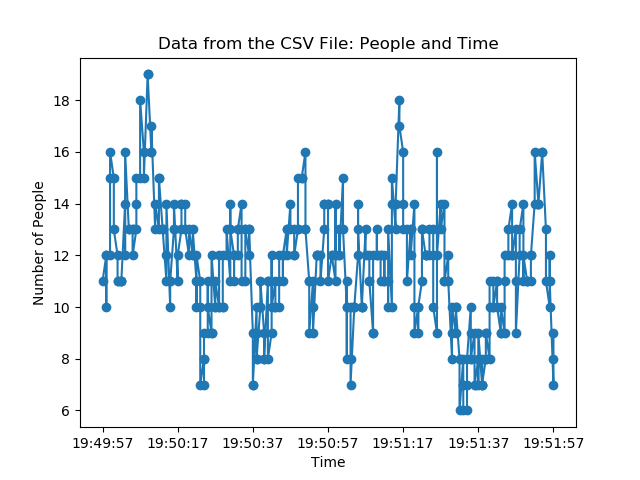
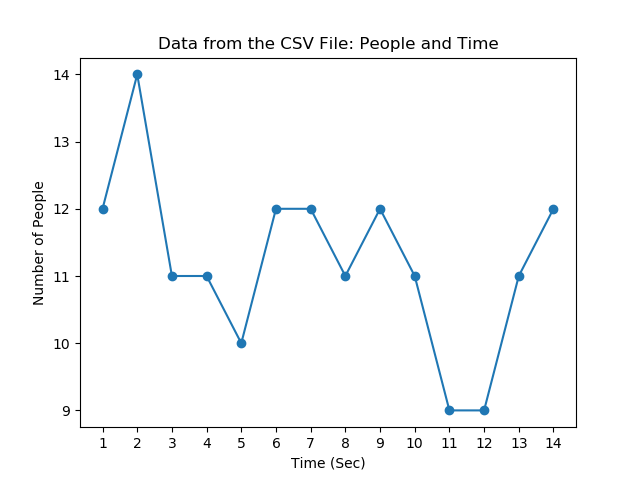
added secs in plot and results avg

diff --git a/od_example.py b/od_example.py
@@ -16,7 +16,7 @@ from matplotlib import pyplot as plt
 from PIL import Image
 from utils import label_map_util
 from utils import visualization_utils as vis_util
-from sapiens_utils import Sapiens 
+from sapiens_utils import Sapiens
 import reg_total_people
 #from sapiens_utils import Sapiens.det_record
 
@@ -25,7 +25,7 @@ elapsedTime = 0
 sapiens= Sapiens()
 
 # Define the video stream
-video_source = "people-1.mp4"
+video_source = "people_walking.mp4"
 cap = cv2.VideoCapture(video_source)  # Change only if you have more than one webcams
 
 # What model to download.
@@ -77,7 +77,7 @@ def load_image_into_numpy_array(image):
     return np.array(image.getdata()).reshape(
         (im_height, im_width, 3)).astype(np.uint8)
 
-i=0
+frames_processed = 1
 fpstot = 0.0
 
 # Detection
@@ -105,8 +105,13 @@ try:
                 (boxes, scores, classes, num_detections) = sess.run(
                     [boxes, scores, classes, num_detections],
                     feed_dict={image_tensor: image_np_expanded})
+
                 ### Count detected people on current frame
-                sapiens.people_on_output_tensor(scores=scores, classes=classes,num_detections=num_detections,threshold=0.5)
+                sapiens.people_on_output_tensor(scores=scores,
+                                                classes=classes,
+                                                num_detections=num_detections,
+                                                threshold=0.5,
+                                                frames_processed=frames_processed)
 
                 # Visualization of the results of a detection.
                 vis_util.visualize_boxes_and_labels_on_image_array(
@@ -126,11 +131,11 @@ try:
                     reg_total_people.plot_results(video_source)
                     cv2.destroyAllWindows()
                     break
-                
+
                 elapsedTime = time.time() - t1
-                i+=1
-                if i < 200:
+                if frames_processed < 200:
                     fpstot += 1/elapsedTime
-                    print('fps promedio: ', fpstot/i)
+                    print('fps promedio: ', fpstot/frames_processed)
+                frames_processed+=1
 except TypeError:
     reg_total_people.plot_results(video_source)

diff --git a/reg_total_people.py b/reg_total_people.py
@@ -1,27 +1,10 @@
 import matplotlib.pyplot as plt
 import csv
 from sapiens_utils import Sapiens
+from sapiens_utils import VIDEO_FPS
+from math import ceil
 
 def plot_results(video_source):
-
-	# mylist = func.sapiens_utils()
-	#mylist1 = [12, 10, 11, 11] # prueba
-	#mylist2 = ["a", "b", "c", "j"]
-	mylist = zip(Sapiens.det_record, Sapiens.time_record)
-
-	with open("register.csv", 'w', newline='') as myfile:
-		wr = csv.writer(myfile, quoting=csv.QUOTE_ALL)
-		wr.writerows(mylist)
-
-	#plt.locator_params(axis='x', nbins=10)
-	ax = plt.axes()
-	ax.xaxis.set_major_locator(plt.MaxNLocator(8))
-	plt.plot(Sapiens.time_record, Sapiens.det_record, marker='o')
-
-	plt.title('Data from the CSV File: People and Time')
-
-	plt.xlabel('Time')
-	plt.ylabel('Number of People')
 
 	try:
 		if video_source.endswith('.mp4'):
@@ -30,6 +13,32 @@ def plot_results(video_source):
 			video_source = "people"
 	except:
 		video_source = "people"
+
+	avg_det_record = []
+	for i in range(ceil(len(Sapiens.det_record) / VIDEO_FPS)):
+		if ((i+1)*VIDEO_FPS) < len(Sapiens.det_record):
+			gen_list = Sapiens.det_record[i*VIDEO_FPS:((i+1)*VIDEO_FPS)-1]
+		else:
+			gen_list = Sapiens.det_record[i*VIDEO_FPS:]
+
+		avg_det_record.append(round(sum(gen_list) / len(gen_list)))
+
+	avg_time_record = list(set(Sapiens.time_record))
+	mylist = zip(avg_det_record, avg_time_record)
+
+	with open(video_source + ".csv", 'w', newline='') as myfile:
+		wr = csv.writer(myfile, quoting=csv.QUOTE_ALL)
+		wr.writerows(mylist)
+
+	#plt.locator_params(axis='x', nbins=10)
+	ax = plt.axes()
+	ax.xaxis.set_major_locator(plt.MaxNLocator(16))
+	plt.plot(avg_time_record, avg_det_record, marker='o')
+
+	plt.title('Data from the CSV File: People and Time')
+
+	plt.xlabel('Time (Sec)')
+	plt.ylabel('Number of People')
 
 	plt.savefig(video_source + ".png")
 

diff --git a/sapiens_utils.py b/sapiens_utils.py
@@ -1,16 +1,20 @@
 
 import numpy as np
-from datetime import datetime
+import time
+from math import ceil
+
+VIDEO_FPS = 25
 
 class Sapiens:
 	det_record = []
 	time_record = []
-  
+
 	def __init__(self):
 		pass
 
 
-	def people_on_output_tensor(self,scores, classes, num_detections,threshold):
+	def people_on_output_tensor(self, scores, classes, num_detections,
+								threshold, frames_processed):
 
 		classes = np.squeeze(classes).astype(np.int32)
 		scores = np.squeeze(scores)
@@ -18,23 +22,17 @@ class Sapiens:
 		scores_of_people = list(filter(lambda x: x >= threshold, scores))
 
 		classes = classes[:len(scores_of_people)]
-		
+
 		try:
 			classes = np.delete(classes, np.where(classes != 1))
-			
+
 		except:
 			pass
 
 
 		num_of_people = len(classes)
-		print(classes)
 		self.det_record.append(num_of_people)
-		now = datetime.now()
-		current_time = now.strftime("%H:%M:%S")
-		self.time_record.append(current_time)
+		video_second = ceil(frames_processed / VIDEO_FPS)
+		self.time_record.append(video_second)
 
 		return print(num_of_people)
-
-
-
-
